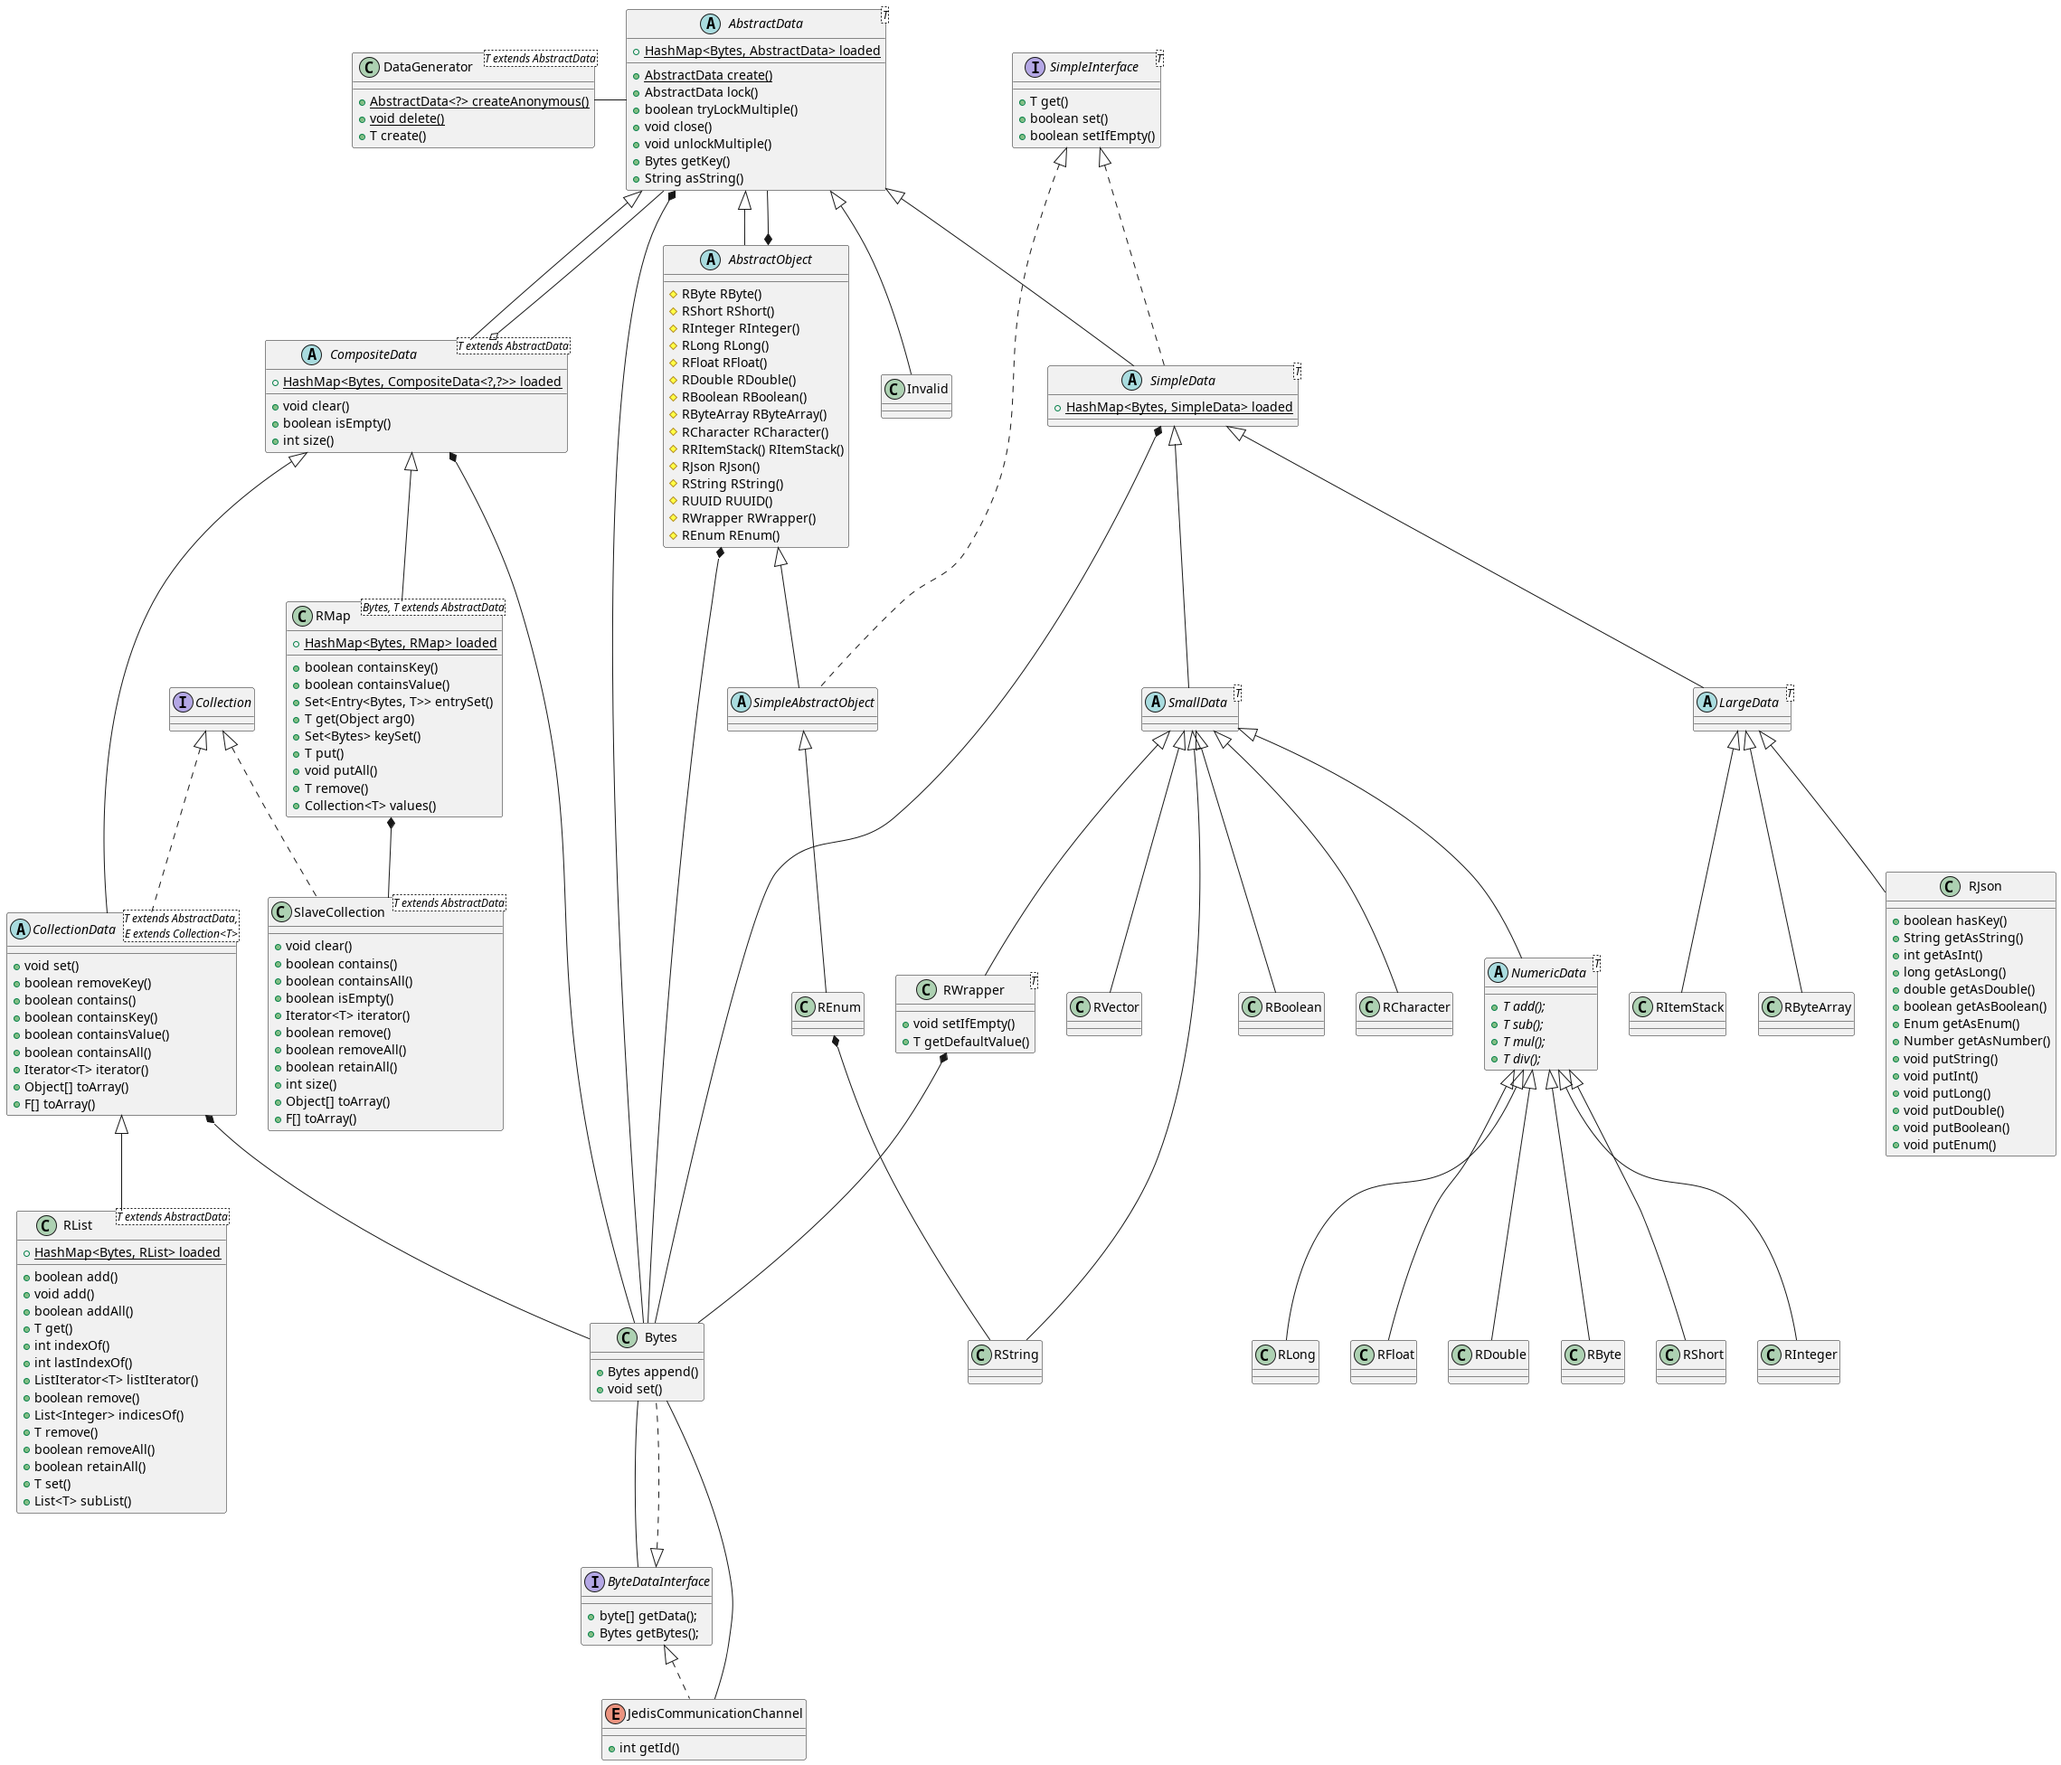
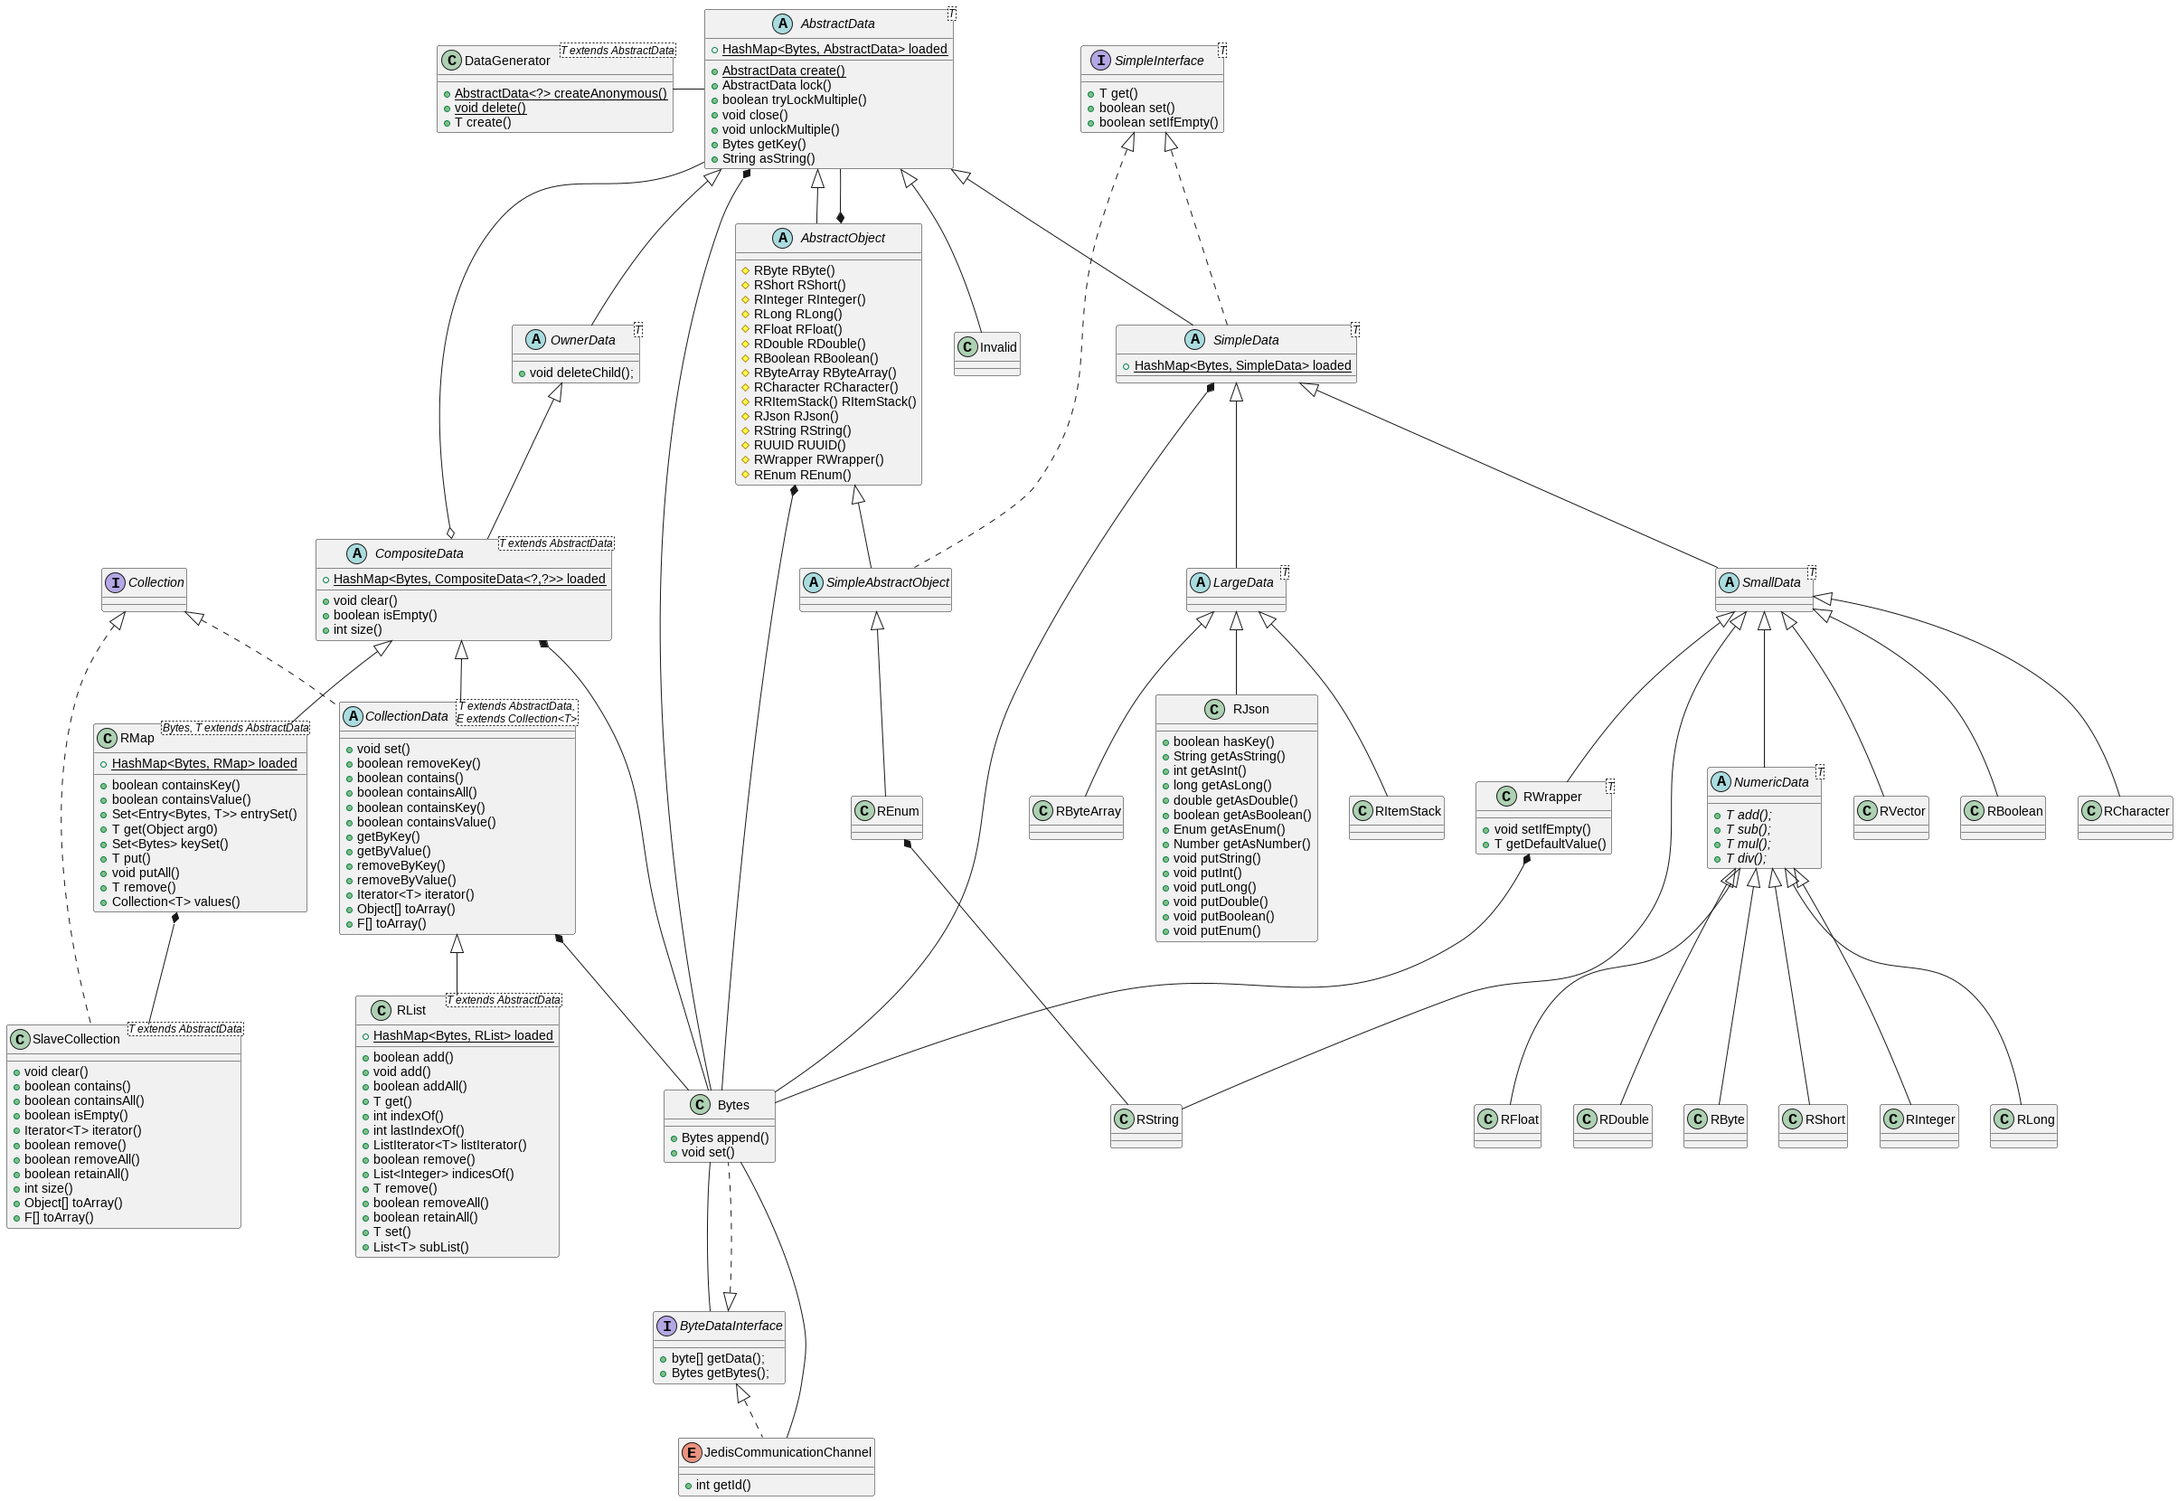
basic implementations for getByValue getByKey and similar remove functions for Collection Data Untested!

diff --git a/src/main/java/net/legendofwar/firecord/jedis/dataset/dataentry/composite/RList.java b/src/main/java/net/legendofwar/firecord/jedis/dataset/dataentry/composite/RList.java
@@ -696,4 +696,52 @@ public final class RList<T extends AbstractData<?>> extends CollectionData<T, Li
         return false;
     }
 
+    @Override
+    public List<T> getByKey(Bytes key) {
+        List<T> result = new ArrayList<>();
+        synchronized (this.data) {
+            for (T entry : this.data) {
+                if (entry.getKey().equals(key)){
+                    result.add(entry);
+                }
+            }
+        }
+        return result;
+    }
+
+    @Override
+    public List<T> getByValue(T value) {
+        List<T> result = new ArrayList<>();
+        synchronized (this.data) {
+            for (T entry : this.data) {
+                if (entry instanceof SimpleInterface) {
+                    SimpleInterface<Object> e = (SimpleInterface<Object>) entry;
+                    if (e.get().equals(value)) {
+                        result.add(entry);
+                    }
+                } else if (entry instanceof CollectionData) {
+                    CollectionData<AbstractData<?>, ?> e = (CollectionData<AbstractData<?>, ?>) entry;
+                    if (e.data.equals( ((CollectionData<?,?>) (entry)).data)) {
+                        result.add(entry);
+                    }
+                } else if (entry instanceof AbstractObject) {
+                    if (entry.equals(value)){
+                        result.add(entry);
+                    }
+                }
+            }
+        }
+        return result;
+    }
+
+    @Override
+    public void removeByKey(Bytes key) {
+        this.removeAll(getByKey(key));
+    }
+
+    @Override
+    public void removeByValue(T value) {
+        this.removeAll(getByValue(value));
+    }
+
 }

diff --git a/src/main/java/net/legendofwar/firecord/jedis/dataset/dataentry/composite/CollectionData.java b/src/main/java/net/legendofwar/firecord/jedis/dataset/dataentry/composite/CollectionData.java
@@ -134,7 +134,15 @@ public abstract class CollectionData<T extends AbstractData<?>, E extends Collec
 
     public abstract boolean containsKey(Bytes key);
 
-    public abstract boolean containsValue(Object value);
+    public abstract boolean containsValue(T value);
+
+    public abstract E getByKey(Bytes key);
+
+    public abstract E getByValue(T value);
+
+    public abstract void removeByKey(Bytes key);
+
+    public abstract void removeByValue(T value);
 
     @Override
     public boolean containsAll(Collection<?> arg0) {
